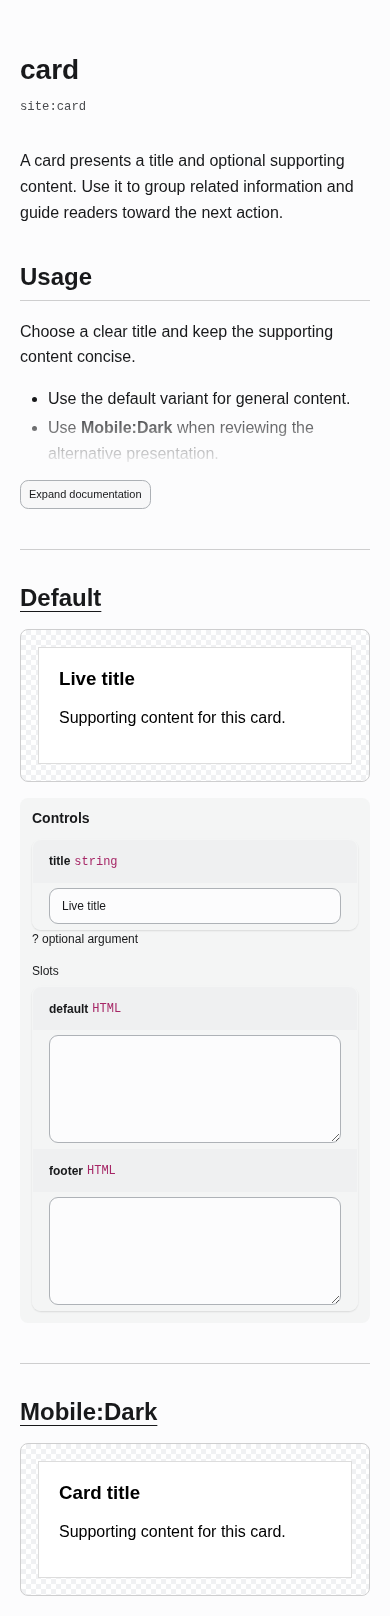
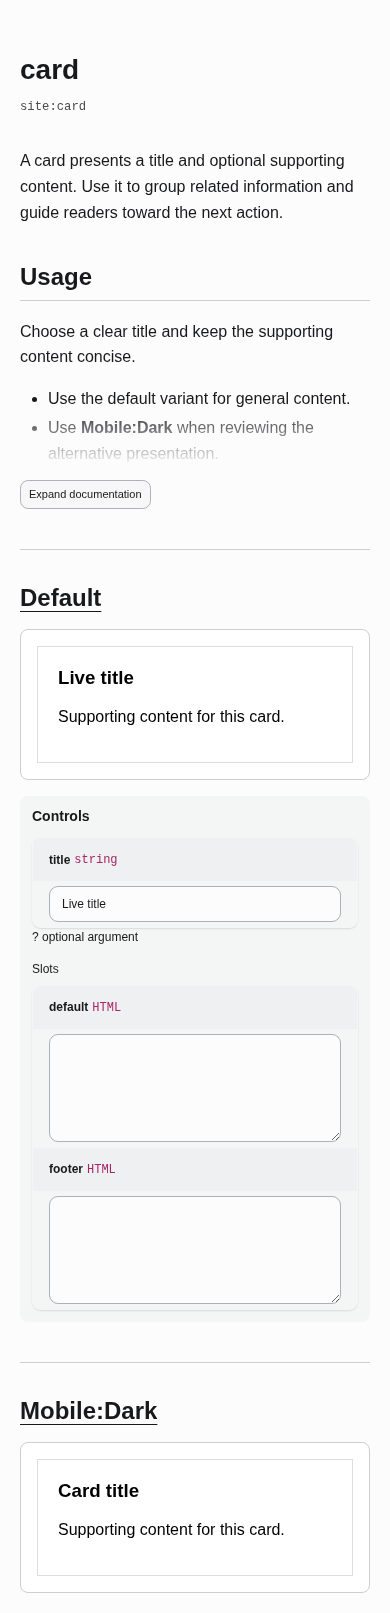
[TASK] Align preview backgrounds and Docs frame padding

diff --git a/Resources/Public/Css/Backend/component-overview.css b/Resources/Public/Css/Backend/component-overview.css
@@ -181,10 +181,10 @@
 }
 
 .frontend-studio-overview-frame {
-  padding: clamp(0.75rem, 2vw, 1.5rem);
+  padding: clamp(0.7rem, 1.5vw, 1rem);
   border: 1px solid var(--overview-border);
   border-radius: 8px;
-  background: repeating-conic-gradient(light-dark(#f0f1f3, #343a40) 0% 25%, light-dark(#fff, #292e33) 0% 50%) 0 0 / 10px 10px;
+  background: repeating-conic-gradient(light-dark(#fff, #ddd) 0% 25%, light-dark(#fff, #fff) 0% 50%) 0 0 / 10px 10px;
   overflow: hidden;
 }
 

diff --git a/Resources/Public/Css/Backend/variant-view.css b/Resources/Public/Css/Backend/variant-view.css
@@ -50,7 +50,7 @@
     min-width: 0;
     min-height: 0;
     overflow: auto;
-    background: var(--frontend-studio-variant-bg);
+    background: repeating-conic-gradient(light-dark(#fff, #ddd) 0% 25%, light-dark(#fff, #fff) 0% 50%) 0 0 / 10px 10px;
 }
 
 .frontend-studio-variant-preview iframe {

diff --git a/Classes/Middleware/ComponentPreviewMiddleware.php b/Classes/Middleware/ComponentPreviewMiddleware.php
@@ -279,11 +279,8 @@ html, body {
 body {
     margin: 5px;
 
-    background: linear-gradient(45deg, rgba(0, 0, 0, 0.098) 25%, transparent 25%, transparent 75%, rgba(0, 0, 0, 0.098) 75%, rgba(0, 0, 0, 0.098) 0), linear-gradient(45deg, rgba(0, 0, 0, 0.098) 25%, transparent 25%, transparent 75%, rgba(0, 0, 0, 0.098) 75%, rgba(0, 0, 0, 0.098) 0), white;
-    background-repeat: repeat, repeat;
-    background-position: 0 0, 5px 5px;
-    background-clip: border-box, border-box;
-    background-size: 10px 10px, 10px 10px;
+    color-scheme: light dark;
+    background: repeating-conic-gradient(light-dark(#fff, #ddd) 0% 25%, light-dark(#fff, #fff) 0% 50%) 0 0 / 10px 10px;
     transition: none;
     transform: scaleX(1) scaleY(1) scaleZ(1);
 }
